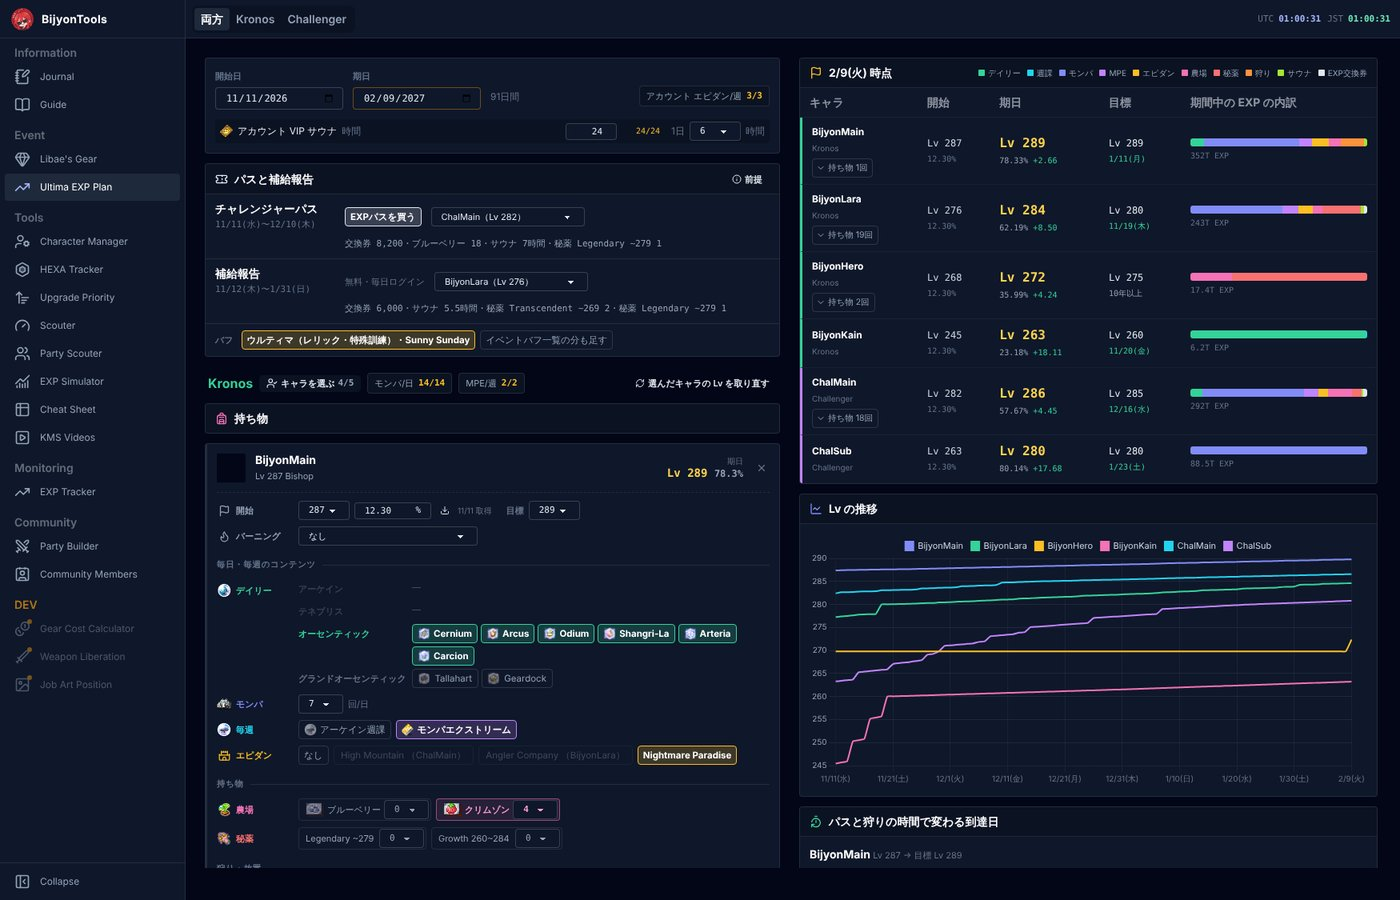
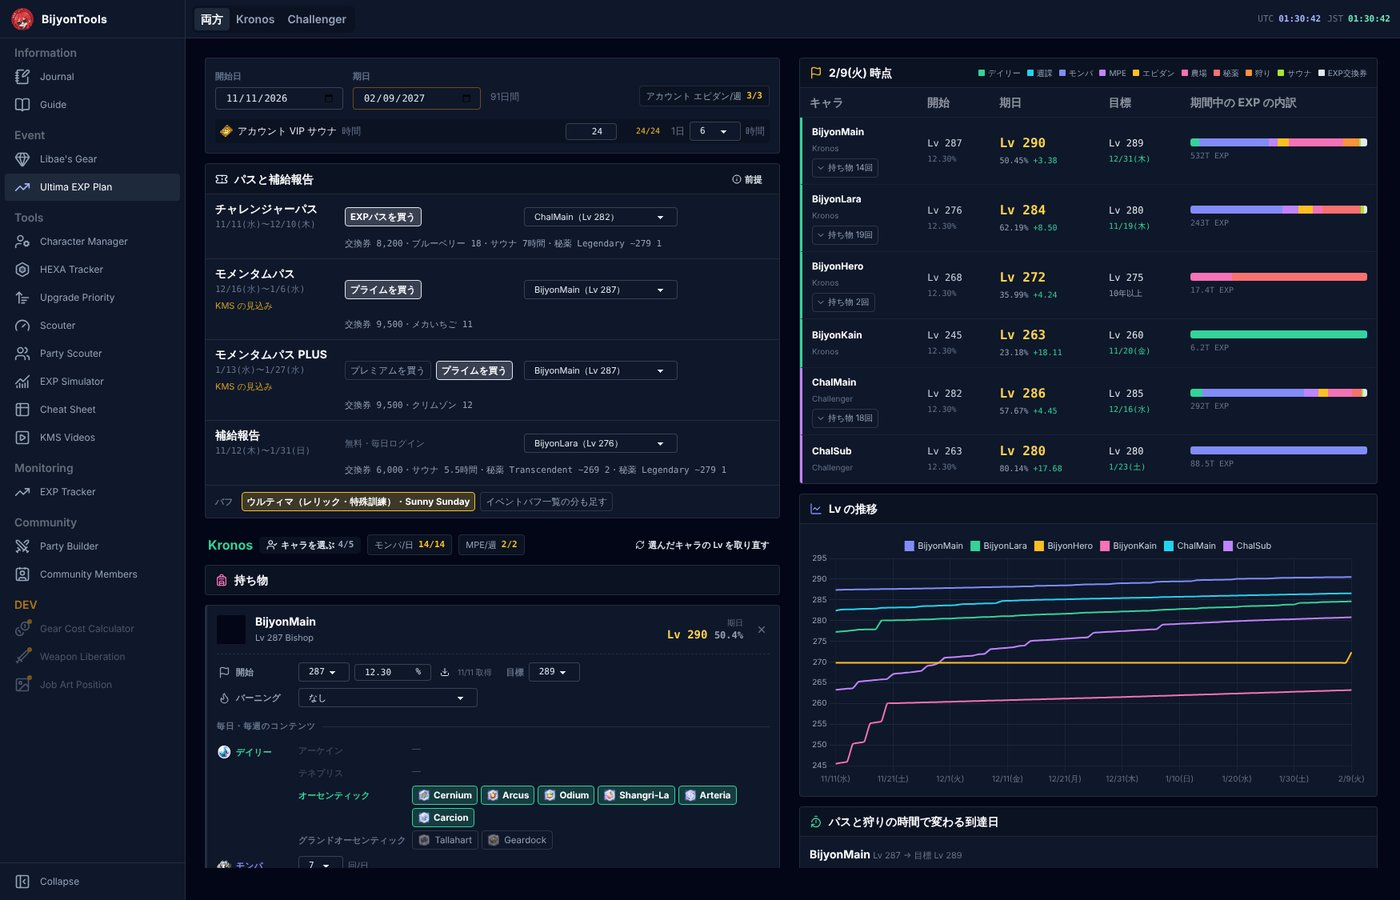
Ultima EXP Plan: モメンタムパス・PLUS を KMS の見込みとして戻す
v.272 にはまだないが後のアップデートで出る見込みのため（bi 指示）。
画面に「KMS の見込み」と出し、パスの組み合わせ（7通り）も元に戻す。

Claude-Session: https://claude.ai/code/session_01VfuuujikGtTFYW2y56vUKT

diff --git a/public/exp_ultima.js b/public/exp_ultima.js
@@ -6,11 +6,11 @@
 //     保存は別（mm-exp-ultima::<Planner の「自分」>）で、初めて開いたときだけアカウント計画の中身を写す。
 //   - バフはエテリオン・レリックと補給報告の特殊訓練、Sunny Sunday の分（下の BUFFS）を最初から入れる。
 //     イベントバフ一覧（expBuffs）の分も足すかはスイッチ（同じものを読み込んでいると二重になるので既定はオフ）。
-//   - チャレンジャーパスは買うかのチェックと受け取るキャラを選ぶ。補給報告（毎日のログイン）は無料で、受け取るキャラだけ選ぶ。
+//   - パス（チャレンジャーパス・モメンタムパス・PLUS）は買うかのチェックと受け取るキャラを選ぶ。補給報告（毎日のログイン）は無料で、受け取るキャラだけ選ぶ。
 //     もらった日から、受け取ったキャラが今のルールで使う
 //     （農場チケットは入れる Lv になったら、秘薬は上限 Lv から逆算した Lv で、上級EXP交換券とサウナ券はもらった日に）。
 // 中身と日付は GMS v.272 のパッチノート（2026-11-11、nexon.com news 47132）による。
-// KMS にあったモメンタムパス・PLUS は GMS にはない（同じ時期の Genesis Pass は EXP の報酬なし）。
+// モメンタムパス・PLUS は v.272 にはまだなく、KMS の実績からの見込み（後のパッチノートで分かったら直す）。
 
 // 補給報告の日付。1日1回、週5回まで（イベントの週は水曜から）。毎週はじめの5日で受け取る最短の日
 const ULTIMA_SUPPLY_DATE = n => expDate.add('2026-11-11', 7 * Math.floor((n - 1) / 5) + (n - 1) % 5);
@@ -90,6 +90,29 @@ const expUltima = Object.assign(Object.create(expPlan), {
                 { date: '2026-11-26', free: { sauna: 0.5 }, exp: { coupon: 1000, farm: 3, sauna: 1 } },
                 { date: '2026-12-03', free: { coupon: 100 }, exp: { coupon: 1000, farm: 3, sauna: 1 } },
                 { date: '2026-12-10', free: { coupon: 2100 }, exp: { coupon: 1000, farm: 2, sauna: 1, pot: { p279: 1 } } },
+            ],
+        },
+        // モメンタムパス・PLUS は v.272 のノートにはまだない。後のアップデートで出る見込みなので、KMS の実績（KMS 7/23・8/20 →
+        // GMS は 11/11 から1週ずつ対応させて 12/16・1/13）で入れておく（kms: true は画面に「KMS の見込み」と出す）。
+        {
+            id: 'mp', name: 'モメンタムパス', short: 'モメンタム', abbr: 'モメ', world: null, minLv: 280, farm: 'mecha', kms: true,
+            note: 'Lv280 以上・1アカウント1キャラ',
+            tiers: [{ id: 'prime', label: 'プライム', price: '49,800NX' }],
+            steps: [
+                { date: '2026-12-16', free: { farm: 1 }, prime: { farm: 1 } },
+                { date: '2026-12-23', free: { coupon: 100 }, prime: { coupon: 3000, farm: 2 } },
+                { date: '2026-12-30', free: { coupon: 100 }, prime: { coupon: 3000, farm: 3 } },
+                { date: '2027-01-06', free: { coupon: 300 }, prime: { coupon: 3000, farm: 4 } },
+            ],
+        },
+        {
+            id: 'mpp', name: 'モメンタムパス PLUS', short: 'モメンタム PLUS', abbr: 'PLUS', world: null, minLv: 280, farm: 'crimson', kms: true,
+            note: 'Lv280 以上・1アカウント1キャラ',
+            tiers: [{ id: 'premium', label: 'プレミアム', price: '29,800NX' }, { id: 'prime', label: 'プライム', price: '39,800NX' }],
+            steps: [
+                { date: '2027-01-13', free: { farm: 1 }, premium: { farm: 1 }, prime: { coupon: 3000, farm: 3 } },
+                { date: '2027-01-20', free: { coupon: 100 }, premium: { coupon: 3000, farm: 2 }, prime: { coupon: 3000, farm: 4 } },
+                { date: '2027-01-27', free: { coupon: 400 }, premium: { coupon: 1500, farm: 2 }, prime: { coupon: 3000, farm: 4 } },
             ],
         },
         {
@@ -374,7 +397,7 @@ const expUltima = Object.assign(Object.create(expPlan), {
             <div class="expu-pass">
                 <div class="min-w-0">
                     <div class="font-bold text-white text-sm truncate">${p.name}</div>
-                    <div class="text-[11px] text-slate-500 font-mono">${expDate.short(this.passDate(p, 0))}〜${expDate.short(this.passEnd(p))}</div>
+                    <div class="text-[11px] text-slate-500 font-mono">${expDate.short(this.passDate(p, 0))}〜${expDate.short(this.passEnd(p))}</div>${p.kms ? '<div class="text-[11px] text-amber-400/80">KMS の見込み</div>' : ''}
                 </div>
                 <div class="flex flex-wrap items-center gap-1.5">
                     ${p.tiers.length ? p.tiers.map(t => this.chipHTML(!!st.pass[p.id].buy[t.id], `${t.label}を買う`, `${this.NS}.togglePassTier('${p.id}','${t.id}')`, t.price)).join('') : '<span class="text-[11px] text-slate-500">無料・毎日ログイン</span>'}
@@ -407,7 +430,7 @@ const expUltima = Object.assign(Object.create(expPlan), {
     notesHTML() {
         return `
         <ul class="expu-notes">
-            <li>期間は GMS 2026/11/11〜2027/2/9。中身と日付は GMS v.272 のパッチノートによります。KMS にあったモメンタムパス・PLUS は GMS にはありません（Genesis Pass には EXP の報酬がありません）。</li>
+            <li>期間は GMS 2026/11/11〜2027/2/9。チャレンジャーパス・補給報告・バフは GMS v.272 のパッチノートによります。モメンタムパス・PLUS は v.272 にはまだないので、KMS の実績（KMS 6/18 を GMS 11/11 として1週ずつ対応、12/16・1/13 開始）の見込みです。後のパッチノートで分かったら直します。</li>
             <li>チャレンジャーパスは週 500 ポイント（5Lv）まで、ポイントの週は木曜 9時（日本時間）に切り替わるので、1週目は 11/11 の1日だけです。毎週はじめに上限まで貯めた最短の日で受け取ります（取りこぼしたポイントはメイプルポイントで買えます）。Lv が足りない間の分は、届いた日にまとめて受け取ります。計画の開始日より前の分は、もう持ち物にあるものとして足しません。</li>
             <li>補給報告は毎日のログインで1回、週5回まで（アカウントで1回）。毎週はじめの5日で受け取る最短の日です。サウナ券・秘薬・上級EXP交換券だけ数えています。</li>
             <li>もらったものは受け取ったキャラが使います。農場チケットは入れる Lv になったら、秘薬は上限 Lv から逆算した Lv で（届かなければ期日に）、上級EXP交換券はもらった日に全部使います。サウナ券（1枚30分）はもらった日から、アカウントの1日のサウナ時間の空きで使います。</li>
@@ -470,7 +493,7 @@ const expUltima = Object.assign(Object.create(expPlan), {
         const diff = n => n == null || n === 0 ? '' : `<span class="${n > 0 ? 'text-emerald-400' : 'text-red-400'}">${n > 0 ? '−' : '+'}${Math.abs(n)}</span>`;
         const blocks = list.map(({ ch, target, lvs, now, pass, hunt, cur, byHour, curFree }) => {
             const passTable = pass ? `
-            <div class="expu-sub">パスを買ったとき <span>無料だけのときより何日早く届くか${pass.combos.length > 1 ? '。買うパスは有料分を全部' : ''}</span></div>
+            <div class="expu-sub">${pass.combos.length > 1 ? 'パスの組み合わせ' : 'パスを買ったとき'} <span>無料だけのときより何日早く届くか${pass.combos.length > 1 ? '。買うパスは有料分を全部（PLUS はプレミアムとプライムの両方）' : ''}</span></div>
             <div class="overflow-x-auto"><table class="table table-xs expu-saved">
                 <thead><tr><th></th><th>無料だけ</th>${pass.combos.map(({ set }) => `<th>${set.map(p => p.abbr).join('＋')}</th>`).join('')}</tr></thead>
                 <tbody>${lvs.map(l => {

diff --git a/public/guide.js b/public/guide.js
@@ -32,14 +32,14 @@ const guide = {
               tip: '入力はこのブラウザに保存されます。別の端末に移すときは、下の「データ」で JSON を保存して、移した先で読み込みます。スキルの効果は PTS（10/29〜11/1）時点の情報です。' },
             { key: 'ultima', name: 'Ultima EXP Plan', one: 'ミッション・ウルティマの期間（11/11〜2/9）に、イベントのバフとパス・補給報告の報酬込みで、アカウントのキャラがいつどの Lv になるかを計算します。',
               steps: ['使い方は EXP Simulator の「アカウント計画」と同じです。初めて開いたときは、アカウント計画の中身（選んだキャラ・やること・持ち物）を写して始めます。ここで変えてもアカウント計画は変わりません。',
-                      '「パスと補給報告」で、チャレンジャーパスの EXPパスを買うかを押し、受け取るキャラを選びます。無料分は買わなくても入ります。補給報告（毎日のログイン）は無料で、受け取るキャラだけ選びます。',
+                      '「パスと補給報告」で、チャレンジャーパス・モメンタムパス・モメンタムパス PLUS それぞれ、買うものを押し、受け取るキャラを選びます（モメンタムの2つは KMS の実績からの見込みです）。無料分は買わなくても入ります。補給報告（毎日のログイン）は無料で、受け取るキャラだけ選びます。',
                       'もらった上級EXP交換券・農場チケット・秘薬・サウナ券は、もらった日からそのキャラが使います（農場は入れる Lv になったら、秘薬は上限 Lv から逆算した Lv で、交換券はもらった日に、サウナ券はアカウントの1日のサウナ時間の空きで）。',
                       'ウルティマのバフ（エテリオン・レリックと特殊訓練）と Sunny Sunday のモンパは最初から入っています。EXP Simulator のイベントバフ一覧の分も足すときは「イベントバフ一覧の分も足す」を押します（ウルティマの分を読み込んでいると二重になります）。',
-                      '目標 Lv を入れたキャラは、右の「パスと狩りの時間で変わる到達日」で、5の倍数の Lv ごとに、パスを買うと無料だけのときより何日早く届くかと、1日の狩りの時間を変えたときの到達日を見られます。',
+                      '目標 Lv を入れたキャラは、右の「パスと狩りの時間で変わる到達日」で、5の倍数の Lv ごとに、パスの組み合わせ（1種・2種・3種）を買うと無料だけのときより何日早く届くかと、1日の狩りの時間を変えたときの到達日を見られます。',
                       'Challenger の欄の下の「クアナに移すキャラ」でキャラを1体選び、デイリー・週課をやる上限（Lv か日付）を決めると、そのキャラは上限に届いた日で計算を止めます。次の日からは「後を継ぐキャラ」（この計画の中だけの仮のキャラ）が同じデイリー・モンパ・MPE・エピダン・週課を引き継ぎます。後を継ぐキャラの Lv・バーニング・狩り・目標はそこで入れます。',
                       '右の下の表で、週ごとのバフと受け取りを確認できます。「前提」に受け取りの日付や計算の決めごとをまとめています。'],
               shots: [['16-ultima-exp-plan', 'パスを買ったときの計画。左上がパス、右が期日の Lv と推移']],
-              tip: 'パスの中身とバフの日付は GMS v.272 のパッチノートによります。狩りに乗る EXP（EXPパスの +20% など）は、狩りの「EXP +%」に入れてください。' },
+              tip: 'チャレンジャーパス・補給報告・バフは GMS v.272 のパッチノートによります。モメンタムパス・PLUS は KMS からの見込みで、GMS で分かったら直します。狩りに乗る EXP（EXPパスの +20% など）は、狩りの「EXP +%」に入れてください。' },
         ] },
         { group: 'Tools', icon: 'wrench', apps: [
             { key: 'planner', name: 'Character Manager', one: '自分のキャラを登録して、週ボス・月ボスの消し込みと今週の獲得メルをまとめて管理します。',

diff --git a/public/style.css b/public/style.css
@@ -835,7 +835,7 @@ i.expp-ico, svg.expp-ico { width: 15px; height: 15px; margin: 0 1.5px; }
 .expp-log td { padding: 3px 6px; color: #cbd5e1; }
 .expp-log th.text-right, .expp-log td.text-right { text-align: right; }
 /* Ultima EXP Plan: パスの行と週ごとの表 */
-.expu-pass { display: grid; grid-template-columns: 150px 108px minmax(0, 1fr); align-items: center; gap: 4px 12px; padding: 8px 12px; }
+.expu-pass { display: grid; grid-template-columns: 150px 212px minmax(0, 1fr); align-items: center; gap: 4px 12px; padding: 8px 12px; }
 .expu-pass-tot { grid-column: 2 / -1; }
 .expu-notes { list-style: disc; padding: 8px 12px 10px 28px; font-size: 11.5px; line-height: 1.6; color: #94a3b8; border-top: 1px solid color-mix(in oklab, var(--color-base-content) 10%, transparent); }
 .expu-saved th, .expu-saved td { text-align: center; padding: 4px 8px; font-size: 11px; font-family: var(--font-mono, ui-monospace, monospace); white-space: nowrap; }

diff --git a/README.md b/README.md
@@ -18,7 +18,7 @@ Cloudflare Worker + 静的アセットとして配信している。ビルド工
 | Information | Journal（旧 News） | `updates` | `public/gms_updates.js`（GMS・KMSのアップデート告知の和訳と、Bijyon のコラム。上部バーの GMS／KMS と、少し離した Column で切り替え、その一覧（新しい順）が出る。コラムは `region: 'COLUMN'`、id は `col-` で始める。選んだ回は目次＋全訳の1ページで、目次から各節へ飛び、各節の「↑ 目次へ」で戻る。和訳の書き方は `.claude/skills/news-translation/SKILL.md`。各回の本文と画像は `public/updates/<id>/`。新しい回は `python3 -I tools/import_gms_update.py <和訳.html> <id>` で取り込み、`public/updates/list.json` の先頭に1件足す。過去の回は消さない。各回は `/#updates/<id>` で開け、回のページの「リンクをコピー」で渡す `/journal/<id>` は `worker.js` が Discord などのプレビュー（タイトル・概要・カバー画像）を返してから `/#updates/<id>` へ送る。一覧は `/#updates/gms`・`kms`・`column`） |
 | Information | Guide | `guide` | `public/guide.js`（使い方ガイド。アプリ一覧・基本の操作・アプリごとの説明とスクショ・よくある質問。スクショは `public/assets/guide/`。アプリを足したり画面を大きく変えたりしたら、文とスクショも直す） |
 | Event | Libae's Gear | `libae` | `public/libae_gear.js`（Event World: Quanah の装備「Libae's Supercharged」6部位の [Hologram] スキルラインとジュエルを登録し、スキルの合計 Lv（装備は1スキル Lv.3 まで、ジュエル込みで Master Level 8）、ジュエルのステータス合計、Lv.5 までのジュエル強化の残り素材と Dust 換算を出す。上部バーの 装備管理／ジュエル強化／資料 で切り替え。数値はクライアントデータ、スキル効果は PTS 時点の情報で、定数はファイル先頭。保存はブラウザの `libae-gear-public-v1`・`libae-jewel-settings-public-v1`（単体版と同じキー）、JSON の書き出し・読み込みも単体版と同じ形。Event グループは期間限定のイベント用のアプリを置く） |
-| Event | Ultima EXP Plan | `ultima` | `public/exp_ultima.js`（ミッション・ウルティマ GMS 2026-11-11〜2027-02-09 専用のアカウント計画。計算と画面は `public/exp_plan.js` の `expPlan` を引き継いだもので、保存は別（`mm-exp-ultima::<Planner の「自分」>`、初回だけアカウント計画の中身を写す）。ウルティマのバフ（エテリオン・レリック・特殊訓練）と Sunny Sunday のモンパを内蔵し、イベントバフ一覧の分を足すかはスイッチ。チャレンジャーパスの購入と受け取るキャラ、補給報告（無料）の受け取るキャラを選ぶと、報酬（上級EXP交換券・農場チケット・秘薬・サウナ券）がその日から入る。中身と日付は GMS v.272 のパッチノートによるもので、ファイル先頭の `PASSES`・`BUFFS`・`ULTIMA_SUPPLY` に持つ。上級EXP交換券の量は `public/exp_data.js` の `expCouponExp`。イベントが終わったら APPS とサイドバーの行を外す） |
+| Event | Ultima EXP Plan | `ultima` | `public/exp_ultima.js`（ミッション・ウルティマ GMS 2026-11-11〜2027-02-09 専用のアカウント計画。計算と画面は `public/exp_plan.js` の `expPlan` を引き継いだもので、保存は別（`mm-exp-ultima::<Planner の「自分」>`、初回だけアカウント計画の中身を写す）。ウルティマのバフ（エテリオン・レリック・特殊訓練）と Sunny Sunday のモンパを内蔵し、イベントバフ一覧の分を足すかはスイッチ。チャレンジャーパス・モメンタムパス・モメンタムパス PLUS の購入と受け取るキャラ、補給報告（無料）の受け取るキャラを選ぶと、報酬（上級EXP交換券・農場チケット・秘薬・サウナ券）がその日から入る。中身と日付は GMS v.272 のパッチノートによるもの（モメンタムの2つは v.272 にないので KMS 実績からの見込み）で、ファイル先頭の `PASSES`・`BUFFS`・`ULTIMA_SUPPLY` に持つ。上級EXP交換券の量は `public/exp_data.js` の `expCouponExp`。イベントが終わったら APPS とサイドバーの行を外す） |
 | Tools | Character Manager | `planner` | `public/script.js` |
 | Tools | HEXA Tracker | `hexa` | `public/hexa_tracker.js`、`public/hexa_reader.js`（進捗入力の「ゲーム画面から読み取り」。HEXA Matrix の画面をスクショ・ライブ共有から読む。タイトルの位置だけ Tesseract.js で探し、ノードは固定の位置、Lvの小さな数字は形の照合で読む） |
 | Tools | Upgrade Priority | `gear` | `public/gear_priority.js`（サイドバーは仮の入力。キャラごとの入力は Character Manager のカードの UPGRADE から開く）、`public/gear_reader.js`（ゲーム画面のスクショ・ライブ共有から装備のツールチップを読む。Tesseract.js を jsDelivr から読み込む） |
